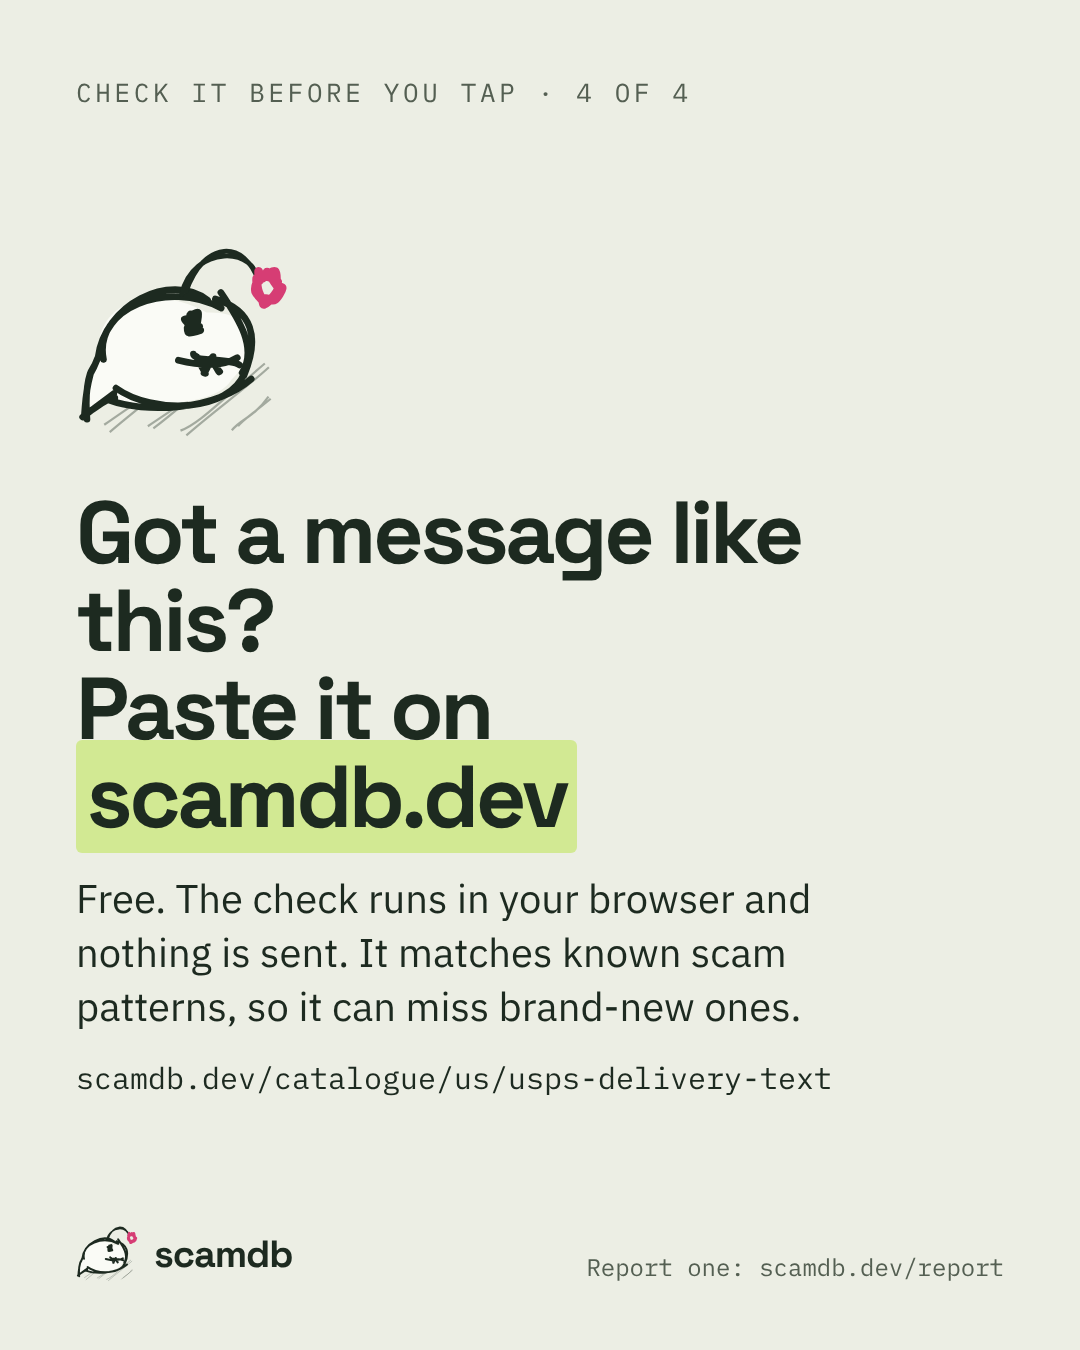
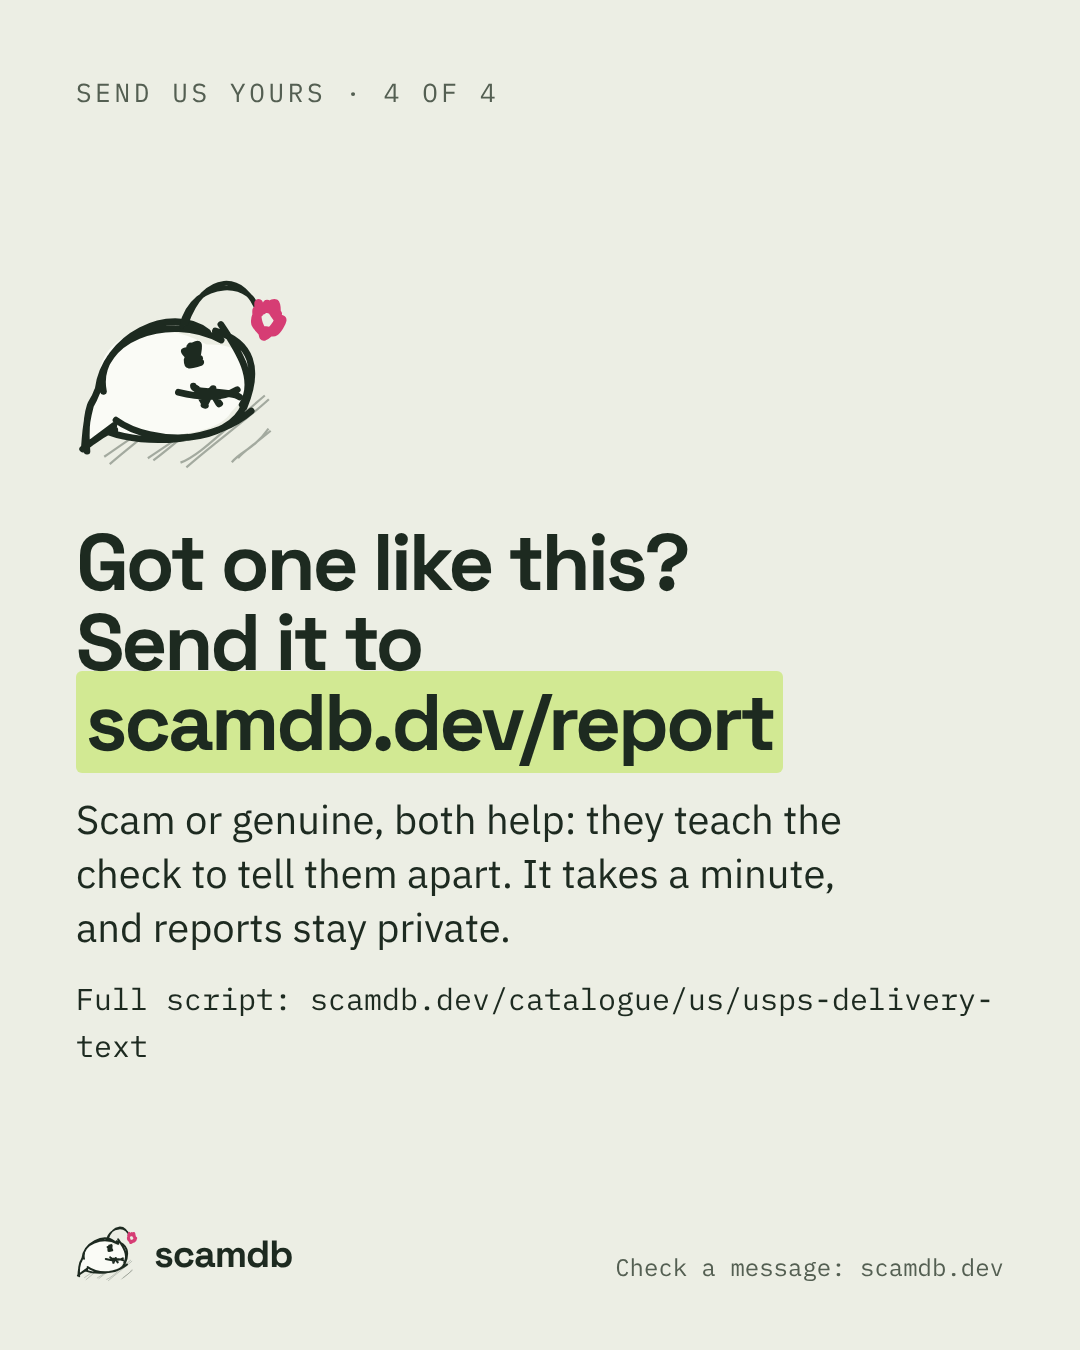
Marketing: make reporting the main call to action in the first two weeks
Claude-Session: https://claude.ai/code/session_018T2J1HvuwaiU8E1hmfTdcN

diff --git a/marketing/posts/2026-11-W48/w48-mon-usps/post.md b/marketing/posts/2026-11-W48/w48-mon-usps/post.md
@@ -21,7 +21,7 @@ Swipe for the real text, the 4 steps of the script and what to do.
 
 The one thing to remember: USPS only texts you if you asked for tracking texts, and those texts have no links.
 
-Got a text like this? Paste it on scamdb.dev (link in bio) and see if it matches a known scam. The check runs in your browser and nothing is sent.
+Got a message like this, scam or genuine? Send it to us at scamdb.dev/report (link in bio). Real messages from your bank or delivery company help too: they teach the check what genuine looks like. Reports stay private.
 
 Share this with someone who’s waiting on a package.
 
@@ -38,8 +38,8 @@ Share this with someone who’s waiting on a package.
    it asks you to tap a link; the fake site asks for your details and card number.
 4. What to do: don’t tap the link, check tracking yourself on usps.com or the store’s site; forward the text to 7726
    then delete it; if you paid, call your card issuer; real USPS texts only come if you asked and have no links.
-5. Got a message like this? Paste it on scamdb.dev. Free, runs in your browser, matches known scam patterns and can
-   miss brand-new ones.
+5. Got a message like this? Send it to scamdb.dev/report. Scam or genuine, both help the check tell them apart.
+   Reports stay private.
 
 ## X
 
@@ -62,4 +62,12 @@ you can fix, then a link that asks for your card.
 Already tapped and paid? Call your card issuer now and ask them to block the card. It happens to careful people every day.
 
 Then forward the text to 7726 (SPAM).
+```
+
+**Reply with the ask (post it as a reply to your own post):**
+
+```x
+Got a message like this, scam or genuine? Send it to us. Both help the check tell them apart, and reports stay private.
+
+https://scamdb.dev/report
 ```

diff --git a/marketing/posts/2026-12-W49/w49-mon-bank-zelle/post.md b/marketing/posts/2026-12-W49/w49-mon-bank-zelle/post.md
@@ -21,7 +21,9 @@ Swipe for the real text (as published by the FBI), the script and what to do.
 
 The one thing to remember: your bank will never ask you to move money to protect it.
 
-Paste a message on scamdb.dev (link in bio) to check it. Share this with someone who banks on their phone.
+Got a message like this, scam or genuine? Send it to us at scamdb.dev/report (link in bio). Real messages from your bank or delivery company help too: they teach the check what genuine looks like. Reports stay private.
+
+Share this with someone who banks on their phone.
 
 #scamalert #bankfraud #fraudprevention #scamawareness #zelle
 ```
@@ -38,7 +40,7 @@ Paste a message on scamdb.dev (link in bio) to check it. Share this with someone
    account.
 4. What to do: your bank will never ask you to move money to protect it; never read out a code; hang up and call the
    number on the back of your card; if you sent money, tell your bank right away.
-5. Got a message like this? Paste it on scamdb.dev.
+5. Got a message like this? Send it to scamdb.dev/report. Scam or genuine, both help. Reports stay private.
 
 ## X
 
@@ -56,3 +58,11 @@ https://scamdb.dev/catalogue/us/bank-fraud-alert-zelle/
 Attempt an Instant Payment in the amount of $5,000.00? REPLY YES or NO or 1 To STOP ALERTS”, then “Our fraud
 specialist will be contacting you shortly”. Three signs: looks like your bank, a payment you didn’t make, then a call
 from “fraud”.
+
+**Reply with the ask (post it as a reply to your own post):**
+
+```x
+Got a message like this, scam or genuine? Send it to us. Both help the check tell them apart, and reports stay private.
+
+https://scamdb.dev/report
+```

diff --git a/marketing/posts/2026-11-W48/w48-tue-toll/post.md b/marketing/posts/2026-11-W48/w48-tue-toll/post.md
@@ -21,7 +21,7 @@ This is a real one, as published by the FBI. Notice the four signs: a toll progr
 
 If you get one: don’t tap. Go to your toll program’s website by typing it yourself, or call the number on your toll account. If you already paid, call your card issuer.
 
-Paste any text on scamdb.dev (link in bio) to see if it matches a known scam.
+Got a toll text, fake or real? Send it to us at scamdb.dev/report (link in bio). Every one helps the check tell them apart. Reports stay private.
 
 #scamalert #textscam #fraudprevention #scamawareness
 ```
@@ -49,3 +49,11 @@ https://scamdb.dev/catalogue/us/toll-text/
 **Alt text (03-x.png):** A real scam text, as published by the FBI: “(State Toll Service Name): We’ve noticed an
 outstanding toll amount of $12.51 on your record. To avoid a late fee of $50.00, visit [link] to settle your balance.”
 Four signs: a toll program you know, too small to question, a threat on top, a link that wants your card.
+
+**Reply with the ask (post it as a reply to your own post):**
+
+```x
+Got a message like this, scam or genuine? Send it to us. Both help the check tell them apart, and reports stay private.
+
+https://scamdb.dev/report
+```

diff --git a/marketing/posts/2026-12-W49/w49-fri-how-the-check-works/post.md b/marketing/posts/2026-12-W49/w49-fri-how-the-check-works/post.md
@@ -17,7 +17,7 @@ You paste a message. scamdb compares it with 1,199 documented scams from 76 coun
 
 What it can’t do: it only knows scams that have already been documented. If it says “not recognised”, that isn’t a promise the message is safe. New scams appear every week. When in doubt, contact the company yourself, using a number or website you already trust.
 
-Got one we didn’t recognise? Report it at scamdb.dev/report so we can add it. Reports stay private.
+This is where you come in. Send us the messages you get at scamdb.dev/report: the scams, and the genuine ones from your bank, your delivery company or your doctor. Genuine messages are what teach the check not to raise false alarms. Reports stay private.
 
 Free, link in bio.
 
@@ -51,4 +51,12 @@ countries. The check runs in your browser.”
 The same check is a free API, and the whole catalogue is open data (CC BY 4.0).
 
 https://scamdb.dev/docs
+```
+
+**Reply with the ask (post it as a reply to your own post):**
+
+```x
+Got a message like this, scam or genuine? Send it to us. Both help the check tell them apart, and reports stay private.
+
+https://scamdb.dev/report
 ```

diff --git a/marketing/posts/2026-12-W49/w49-wed-real-or-scam-bank/post.md b/marketing/posts/2026-12-W49/w49-wed-real-or-scam-bank/post.md
@@ -17,7 +17,7 @@ Real or scam? One of these bank texts is a real scam text that was quoted in the
 
 The answer has an honest twist: from the text alone, you can’t always tell. What gives the scam away is what happens next.
 
-Save this for the next time your phone says “fraud alert”.
+Save this for the next time your phone says “fraud alert”. Got one, real or fake? Send it to scamdb.dev/report (link in bio). Genuine alerts from your bank help as much as scams. Reports stay private.
 
 #scamalert #bankfraud #scamawareness #fraudprevention
 ```
@@ -53,4 +53,12 @@ B: a real scam text, quoted by ABC7 in 2021 (bank name removed).
 The honest part: both ask you to reply. The scam starts after, when a “fraud specialist” calls for a code or to move your money.
 
 Don’t reply to either. Call the number on your card.
+```
+
+**Reply with the ask (post it as a reply to your own post):**
+
+```x
+Got a message like this, scam or genuine? Send it to us. Both help the check tell them apart, and reports stay private.
+
+https://scamdb.dev/report
 ```

diff --git a/marketing/posts/2026-11-W48/w48-wed-real-or-scam-delivery/post.md b/marketing/posts/2026-11-W48/w48-wed-real-or-scam-delivery/post.md
@@ -15,7 +15,7 @@ Real or scam? Two delivery texts, one is a scam. Guess in the comments, then swi
 
 Hint: look at what each one asks you to do.
 
-Waiting on holiday deliveries? Save this for the next time a text says your package is stuck.
+Waiting on holiday deliveries? Save this for the next time a text says your package is stuck. And if you get a delivery text you’re not sure about, real or fake, send it to scamdb.dev/report (link in bio). Reports stay private.
 
 #scamalert #textscam #scamawareness #onlinesafety
 ```
@@ -51,4 +51,12 @@ A delivery “problem” only you can fix, a link, and no order number or store 
 But A can be faked too, so when unsure, open the store’s app yourself.
 
 https://scamdb.dev/catalogue/us/usps-delivery-text/
+```
+
+**Reply with the ask (post it as a reply to your own post):**
+
+```x
+Got a message like this, scam or genuine? Send it to us. Both help the check tell them apart, and reports stay private.
+
+https://scamdb.dev/report
 ```

diff --git a/marketing/posts/2026-11-W48/w48-fri-fake-shops/post.md b/marketing/posts/2026-11-W48/w48-fri-fake-shops/post.md
@@ -23,7 +23,9 @@ Before you pay on a site you’ve never used:
 3. Pay by credit card. It has the most protection.
 4. Paid and nothing came? Call your card issuer. It’s not your fault.
 
-Happy (careful) shopping. Link in bio to see the full script.
+Seen a deal that looks too good? Send us the ad or message at scamdb.dev/report (link in bio). Reports stay private.
+
+Happy (careful) shopping.
 
 #blackfriday #scamalert #onlineshopping #fraudprevention
 ```
@@ -48,3 +50,11 @@ https://scamdb.dev/catalogue/ca/fake-online-store/
 
 **Alt text (03-x.png):** “One trick, 28 countries.” Canada: “80% off, today only”. Bulgaria: up to 95% off and a
 countdown timer. Sweden: “family business closing down”.
+
+**Reply with the ask (post it as a reply to your own post):**
+
+```x
+Got a message like this, scam or genuine? Send it to us. Both help the check tell them apart, and reports stay private.
+
+https://scamdb.dev/report
+```

diff --git a/marketing/posts/2026-11-W48/w48-thu-family-code-word/post.md b/marketing/posts/2026-11-W48/w48-thu-family-code-word/post.md
@@ -20,6 +20,8 @@ If a call like this comes: ask for the word. Or hang up and call your grandchild
 
 Swipe for how the call usually goes (an example we wrote, based on FBI and FTC warnings).
 
+Has your family had a call like this? Tell us at scamdb.dev/report (link in bio). Reports stay private.
+
 Happy Thanksgiving. Share this with the family group chat.
 
 #scamawareness #elderfraud #fraudprevention #scamalert
@@ -47,3 +49,11 @@ https://scamdb.dev/catalogue/us/family-emergency-call/
 
 **Alt text (03-x.png):** Hand-drawn drawing of two people. “Pick a family code word. A ‘grandchild in trouble’ call can
 sound right, even the voice. A word only your family knows ends it in seconds.”
+
+**Reply with the ask (post it as a reply to your own post):**
+
+```x
+Got a message like this, scam or genuine? Send it to us. Both help the check tell them apart, and reports stay private.
+
+https://scamdb.dev/report
+```

diff --git a/marketing/posts/2026-12-W49/w49-tue-gift-cards/post.md b/marketing/posts/2026-12-W49/w49-tue-gift-cards/post.md
@@ -25,6 +25,8 @@ Swipe: 8 scripts in scamdb’s US catalogue that end with a gift-card request.
 
 Already paid with a gift card? Contact the company that issued the card right away and keep the receipt. Then report it at reportfraud.ftc.gov.
 
+Seen a gift-card demand? Send it to us too, at scamdb.dev/report (link in bio). Reports stay private.
+
 #scamalert #giftcardscam #scamawareness #elderfraud
 ```
 
@@ -50,3 +52,11 @@ https://scamdb.dev/catalogue/us/
 
 **Alt text (03-x.png):** Hand-drawn gift box. “Nobody real asks to be paid in gift cards. Not the IRS, the police, your
 bank or a grandchild’s ‘lawyer’.”
+
+**Reply with the ask (post it as a reply to your own post):**
+
+```x
+Got a message like this, scam or genuine? Send it to us. Both help the check tell them apart, and reports stay private.
+
+https://scamdb.dev/report
+```

diff --git a/marketing/posts/2026-12-W49/w49-thu-safe-account/post.md b/marketing/posts/2026-12-W49/w49-thu-safe-account/post.md
@@ -25,6 +25,8 @@ In any language, the answer is the same: there is no safe account. Hang up and c
 
 Know someone who banks in another country, or has parents who do? Send them this.
 
+Got a call or text like this, anywhere in the world? Tell us at scamdb.dev/report (link in bio). Reports stay private.
+
 #scamawareness #bankfraud #fraudprevention #scamalert
 ```
 
@@ -51,3 +53,11 @@ https://scamdb.dev/catalogue/gb/bank-safe-account/
 
 **Alt text (03-x.png):** “Move it to a safe account.” One script in 30+ countries. Spain: cuenta de respaldo de
 seguridad. Netherlands: veilige rekening. Poland: rachunek ochronny.
+
+**Reply with the ask (post it as a reply to your own post):**
+
+```x
+Got a message like this, scam or genuine? Send it to us. Both help the check tell them apart, and reports stay private.
+
+https://scamdb.dev/report
+```

diff --git a/marketing/calendar.md b/marketing/calendar.md
@@ -40,6 +40,15 @@ today.
 - **On hold** (owner's request, to save usage) until the owner picks it up again. Next steps: feedback on the
   test, scripts for video 1, the owner records, then phase 2 posts.
 
+## Change of focus (2026-11-21): reports first
+
+The owner's go-to-market plan puts **getting people to send messages** (scams *and* genuine ones) first. So in every
+post the main call to action is now **"Send it to scamdb.dev/report"**, and "check a message" comes second. Every
+X post has a ready-made reply with the ask.
+
+**Instagram bio:** add `https://scamdb.dev/report` as a second link (Edit profile → Links → Add external link), titled
+"Send us a message". Keep `https://scamdb.dev` as the first link.
+
 ## Notes for the owner
 
 These are things I found while drafting. I didn't change the site, the API or the catalogue.
